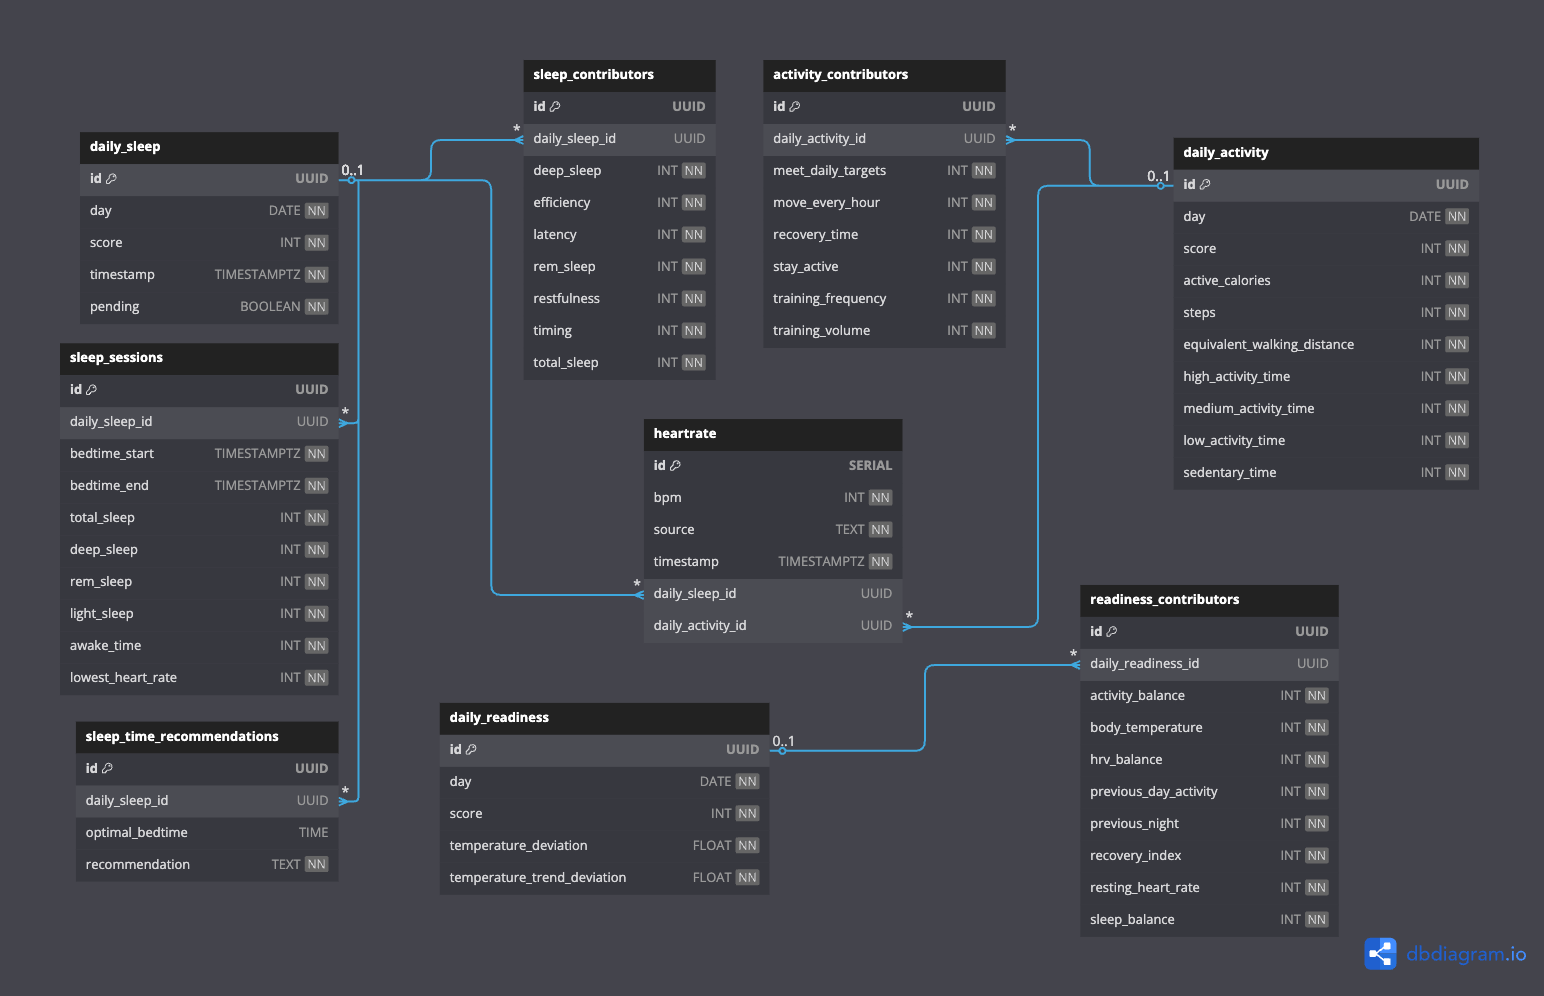
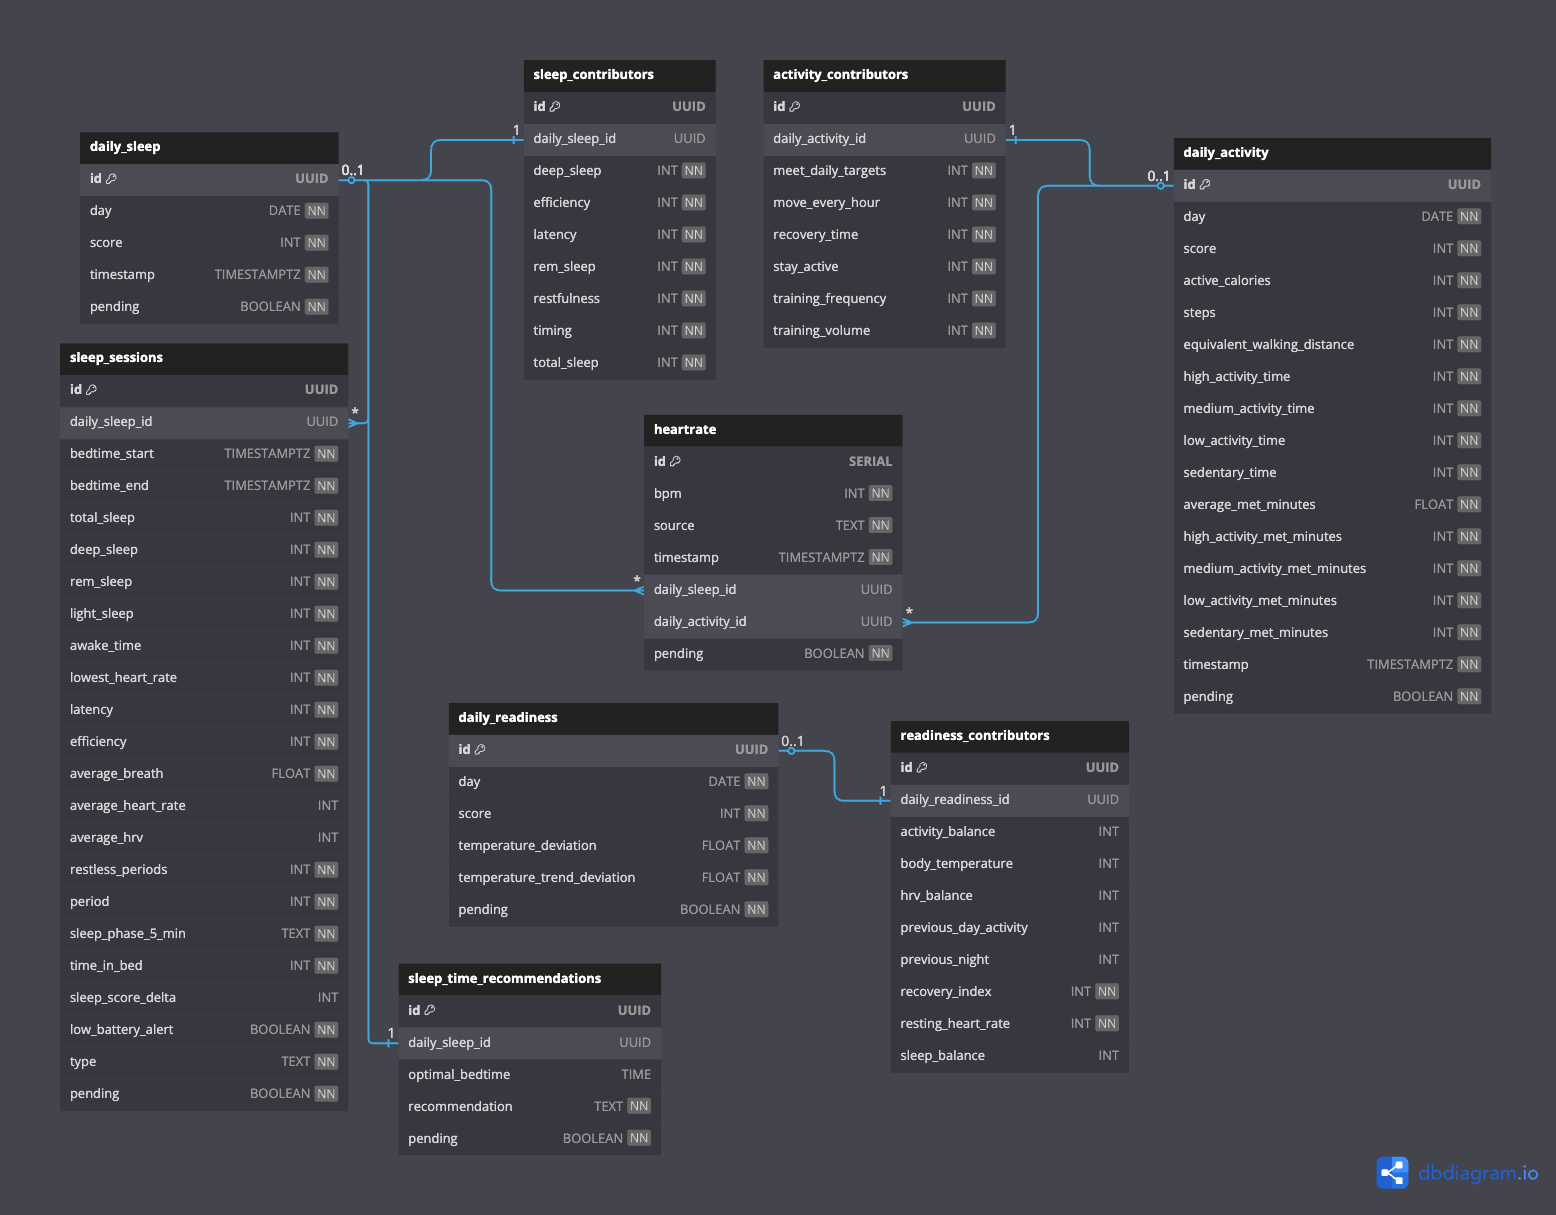
Updated Schema and ERD

diff --git a/database/schema_info.md b/database/schema_info.md
@@ -50,7 +50,7 @@ In summary, these design choices will benefit our uses in the following ways:
 ---
 ### Entity Relationship Diagram
 
-<img src="https://github.com/chill0121/Supervised-Sleep/blob/main/database/ERDiagram_Grouped.png?raw=true" alt="ERD" width="1200"/>
+<img src="https://github.com/chill0121/Supervised-Sleep/blob/main/database/ERDiagram.png?raw=true" alt="ERD" width="1200"/>
 
 ---
 ### Schema Details
@@ -67,7 +67,7 @@ In summary, these design choices will benefit our uses in the following ways:
 #### **2. `sleep_contributors`**
 | Column          | Type  | Constraints         | Description                                    |
 |----------------|------|---------------------|------------------------------------------------|
-| sleep_id       | UUID | FOREIGN KEY $\rightarrow$ `daily_sleep(id)` ON DELETE CASCADE | Links to sleep record      |
+| sleep_id       | UUID | PRIMARY KEY, FOREIGN KEY $\rightarrow$ `daily_sleep(id)` ON DELETE CASCADE | Links to sleep record      |
 | deep_sleep     | INT  | NOT NULL            | Contribution of deep sleep to score            |
 | efficiency     | INT  | NOT NULL            | Sleep efficiency                               |
 | latency        | INT  | NOT NULL            | Time taken to fall asleep                      |
@@ -83,12 +83,24 @@ In summary, these design choices will benefit our uses in the following ways:
 | daily_sleep_id | UUID  | FOREIGN KEY $\rightarrow$ `daily_sleep(id)` ON DELETE CASCADE | Links to daily sleep summary |
 | bedtime_start | TIMESTAMP WITH TIME ZONE | NOT NULL | Sleep session start time |
 | bedtime_end   | TIMESTAMP WITH TIME ZONE | NOT NULL | Sleep session end time |
-| total_sleep   | INT     | NOT NULL   | Total sleep duration in seconds |
-| deep_sleep    | INT     | NOT NULL   | Deep sleep duration (seconds) |
-| rem_sleep     | INT     | NOT NULL   | REM sleep duration (seconds) |
-| light_sleep   | INT     | NOT NULL   | Light sleep duration (seconds) |
+| total_sleep_duration | INT     | NOT NULL   | Total sleep duration in seconds |
+| deep_sleep_duration | INT     | NOT NULL   | Deep sleep duration (seconds) |
+| rem_sleep_duration | INT     | NOT NULL   | REM sleep duration (seconds) |
+| light_sleep_duration | INT     | NOT NULL   | Light sleep duration (seconds) |
 | awake_time    | INT     | NOT NULL   | Time spent awake (seconds) |
-| lowest_heart_rate | INT | NOT NULL | Lowest recorded heart rate |
+| lowest_heart_rate | INT | NULL | Lowest recorded heart rate |
+| latency       | INT     | NOT NULL   | Latency in minutes |
+| efficiency    | INT     | NOT NULL   | Sleep efficiency percentage |
+| average_breath | FLOAT | NOT NULL | Average breaths per minute |
+| average_heart_rate | INT | NULL | Average heart rate |
+| average_hrv   | INT | NULL | Average heart rate variability |
+| restless_periods | INT | NOT NULL | Number of restless periods |
+| period        | INT | NOT NULL | Period of sleep phase |
+| sleep_phase_5_min | TEXT | NOT NULL | Sleep phase over 5 minutes |
+| time_in_bed   | INT | NOT NULL | Time spent in bed (minutes) |
+| sleep_score_delta | INT | NULL | Difference in sleep score from previous session |
+| low_battery_alert | BOOLEAN | NOT NULL DEFAULT FALSE | Low battery alert |
+| type          | TEXT    | NOT NULL   | Type of sleep session (e.g., nap, full sleep) |
 | pending       | BOOLEAN | NOT NULL DEFAULT FALSE | Indicates if data is incomplete |
 
 #### **4. `sleep_time_recommendations`**
@@ -113,16 +125,22 @@ In summary, these design choices will benefit our uses in the following ways:
 | medium_activity_time | INT | NOT NULL         | Duration of medium activity (seconds)       |
 | low_activity_time | INT | NOT NULL           | Duration of low activity (seconds)          |
 | sedentary_time | INT | NOT NULL              | Duration of sedentary time (seconds)        |
-| pending        | BOOLEAN | NOT NULL DEFAULT FALSE | Indicates if data is incomplete          |
+| average_met_minutes | FLOAT | NOT NULL | Average Met minutes                        |
+| high_activity_met_minutes | INT | NOT NULL | High activity Met minutes                  |
+| medium_activity_met_minutes | INT | NOT NULL | Medium activity Met minutes                |
+| low_activity_met_minutes | INT | NOT NULL | Low activity Met minutes                   |
+| sedentary_met_minutes | INT | NOT NULL | Sedentary Met minutes                      |
+| timestamp     | TIMESTAMP WITH TIME ZONE | NOT NULL | Timestamp of the record                   |
+| pending       | BOOLEAN | NOT NULL DEFAULT FALSE | Indicates if data is incomplete          |
 
 #### **6. `activity_contributors`**
 | Column           | Type  | Constraints         | Description                                     |
 |-----------------|------|---------------------|-------------------------------------------------|
-| activity_id     | UUID | FOREIGN KEY $\rightarrow$ `daily_activity(id)` ON DELETE CASCADE| Links to activity record |
+| activity_id     | UUID | PRIMARY KEY, FOREIGN KEY $\rightarrow$ `daily_activity(id)` ON DELETE CASCADE | Links to activity record |
 | meet_daily_targets | INT | NOT NULL | Contribution to activity score |
 | move_every_hour | INT | NOT NULL | Movement frequency per hour |
 | recovery_time   | INT  | NOT NULL | Recovery time metric |
-| stay_active     | INT  | NOT NULL | General activity level |
+| stay_active     | INT | NOT NULL | General activity level |
 | training_frequency | INT | NOT NULL | Frequency of training |
 | training_volume | INT | NOT NULL | Training volume |
 
@@ -132,22 +150,22 @@ In summary, these design choices will benefit our uses in the following ways:
 | id           | UUID    | PRIMARY KEY         | Unique identifier for the readiness record  |
 | day          | TIMESTAMP | UNIQUE, NOT NULL    | Date of readiness data                      |
 | score        | INT     | NOT NULL            | Readiness score                             |
-| temperature_deviation | FLOAT | NOT NULL | Deviation in body temperature               |
-| temperature_trend_deviation | FLOAT | NOT NULL | Trend deviation in body temperature         |
+| temperature_deviation | FLOAT | NULL | Deviation in body temperature               |
+| temperature_trend_deviation | FLOAT | NULL | Trend deviation in body temperature         |
 | pending        | BOOLEAN | NOT NULL DEFAULT FALSE | Indicates if data is incomplete          |
 
 #### **8. `readiness_contributors`**
 | Column             | Type  | Constraints         | Description                                    |
 |-------------------|------|---------------------|------------------------------------------------|
-| readiness_id      | UUID | FOREIGN KEY $\rightarrow$ `daily_readiness(id)` ON DELETE CASCADE | Links to readiness record |
-| activity_balance  | INT  | NOT NULL            | Balance between activity and rest             |
-| body_temperature  | INT  | NOT NULL            | Body temperature score                        |
-| hrv_balance       | INT  | NOT NULL            | HRV balance contribution                      |
-| previous_day_activity | INT | NOT NULL | Activity impact from previous day             |
-| previous_night    | INT  | NOT NULL            | Impact of previous night's sleep              |
+| readiness_id      | UUID | PRIMARY KEY, FOREIGN KEY $\rightarrow$ `daily_readiness(id)` ON DELETE CASCADE | Links to readiness record |
+| activity_balance  | INT  | NULL            | Balance between activity and rest             |
+| body_temperature  | INT  | NULL            | Body temperature score                        |
+| hrv_balance       | INT  | NULL            | HRV balance contribution                      |
+| previous_day_activity | INT | NULL | Activity impact from previous day             |
+| previous_night    | INT  | NULL            | Impact of previous night's sleep              |
 | recovery_index    | INT  | NOT NULL            | Recovery index metric                         |
 | resting_heart_rate | INT | NOT NULL | Resting heart rate                             |
-| sleep_balance     | INT  | NOT NULL            | Contribution of sleep balance to readiness    |
+| sleep_balance     | INT  | NULL            | Contribution of sleep balance to readiness    |
 
 #### **9. `heartrate`**
 | Column         | Type     | Constraints | Description |
@@ -159,6 +177,10 @@ In summary, these design choices will benefit our uses in the following ways:
 | daily_sleep_id | UUID  | FOREIGN KEY $\rightarrow$ `daily_sleep(id)` ON DELETE SET NULL | Links to daily sleep summary |
 | daily_activity_id | UUID | FOREIGN KEY $\rightarrow$ `daily_activity(id)` ON DELETE SET NULL | Links to daily activity summary |
 | pending        | BOOLEAN | NOT NULL DEFAULT FALSE | Indicates if data is incomplete          |
+
+---
+
+This schema now includes the additions found in the dictionary format. Let me know if you need further changes or details!
 
 ---
 ---
@@ -195,6 +217,6 @@ In summary, these design choices will benefit our uses in the following ways:
 | `activity_contributors` | `daily_activity_id` | `daily_activity(id)` | CASCADE |
 | `readiness_contributors` | `daily_readiness_id` | `daily_readiness(id)` | CASCADE |
 | `sleep_sessions`    | `daily_sleep_id`     | `daily_sleep(id)`      | CASCADE |
-| `heartrate`         | `daily_sleep_id` | `daily_sleep(id)` | CASCADE |
-| `heartrate`         | `daily_activity_id` | `daily_activity(id)` | CASCADE |
+| `heartrate`         | `daily_sleep_id` | `daily_sleep(id)` | DO NOTHING (Updates on conflict) |
+| `heartrate`         | `daily_activity_id` | `daily_activity(id)` | DO NOTHING (Updates on conflict) |
 | `sleep_time_recommendations` | `daily_sleep_id` | `daily_sleep(id)` | CASCADE |
